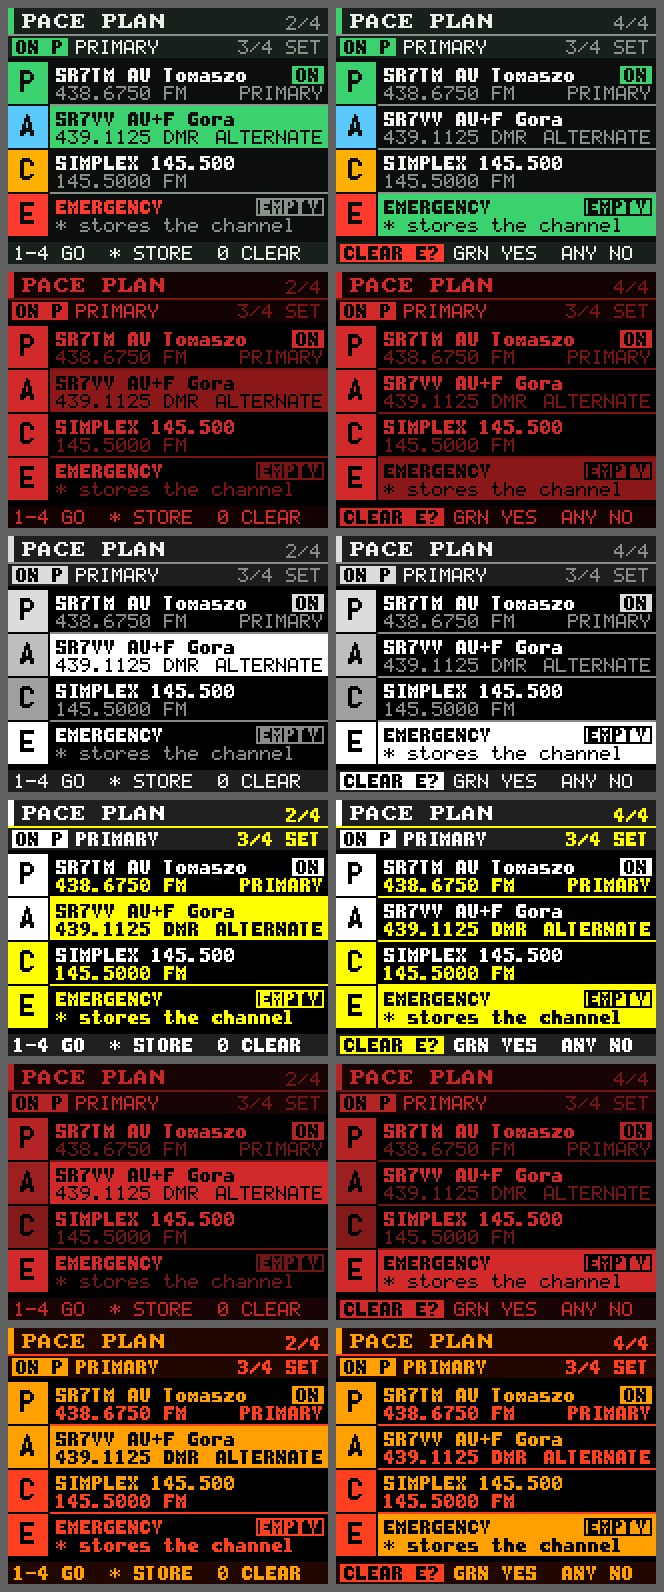
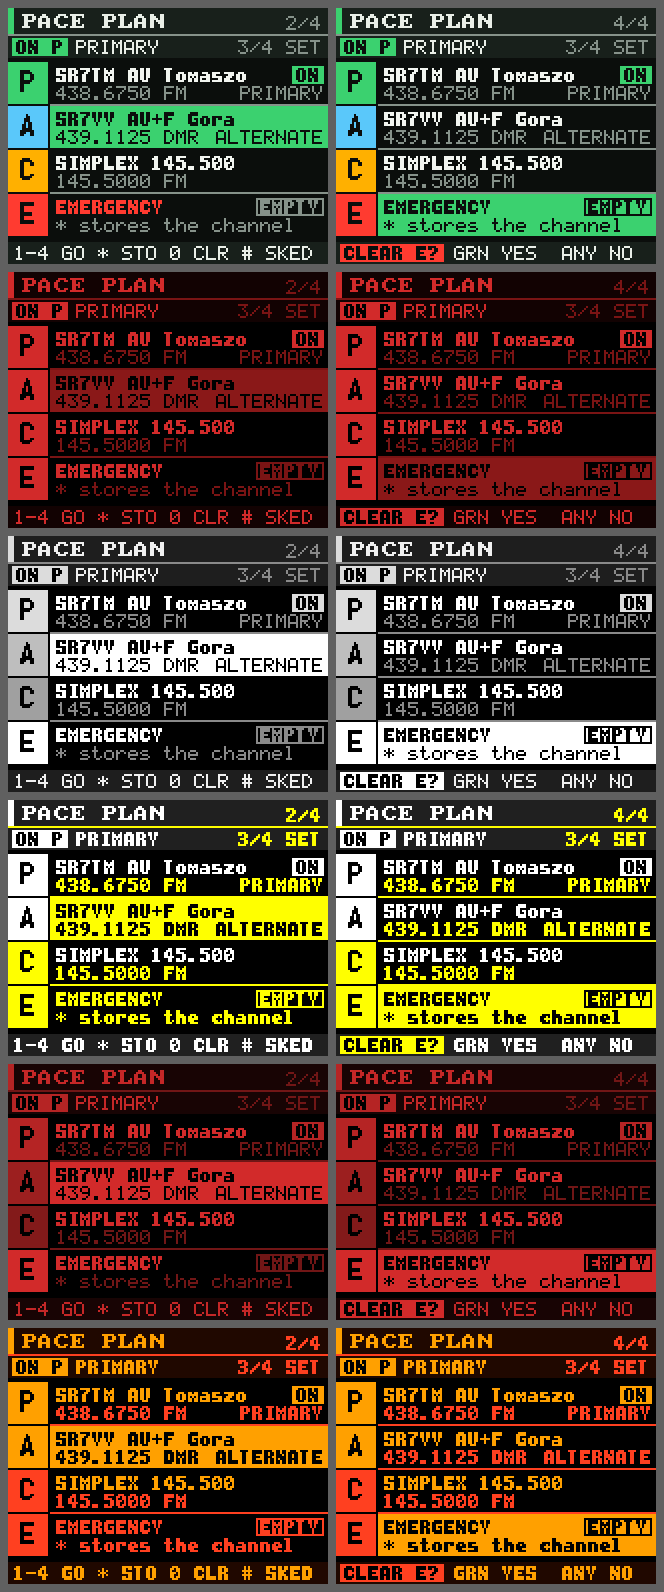
Docs: saved waypoints and sked mock-ups (list, edit, delete, cards, PACE strip) in all EMCOM styles and classic

diff --git a/docs/screens/render_waypoints_sked.py b/docs/screens/render_waypoints_sked.py
@@ -1,0 +1,272 @@
+#!/usr/bin/env python3
+# Stage 4b mock-ups: saved waypoints (menuWaypoints.c) and the comms schedule (menuSked.c,
+# functions/sked.c) in the EMCOM styles (day, night, mono, contrast, mono / contrast at night)
+# and the classic style. Per style: waypoint list with a fix, without a fix on an empty slot,
+# delete confirmation; sked list, editor, delete confirmation; the "SKED in 1 min" and
+# "SKED NOW" cards over the main screen and the PACE strip with the next sked. Example data.
+#
+#   python3 docs/screens/render_waypoints_sked.py
+#   (writes tools_waypoints.png, tools_sked.png, field_sked_cards.png, field_waypoints.png, field_sked.png)
+import math
+import os
+import sys
+
+HERE = os.path.dirname(os.path.abspath(__file__))
+sys.path.insert(0, HERE)
+import render_screens as R  # noqa: E402
+import render_access as A  # noqa: E402
+import render_refresh as F  # noqa: E402
+import render_tools as T  # noqa: E402
+import render_blackout as B  # noqa: E402
+import render_menus as M  # noqa: E402
+
+W, H = R.W, R.H
+txt, chip, title, strip, keybar, confirm = T.txt, T.chip, T.title, T.strip, T.keybar, T.confirm
+BODY_Y, KEYBAR_Y, STRIP_Y = T.BODY_Y, T.KEYBAR_Y, T.STRIP_Y
+
+
+def tri(s, pts, c):
+    (x0, y0), (x1, y1), (x2, y2) = pts
+    for y in range(min(y0, y1, y2), max(y0, y1, y2) + 1):
+        for x in range(min(x0, x1, x2), max(x0, x1, x2) + 1):
+            d0 = (x1 - x0) * (y - y0) - (y1 - y0) * (x - x0)
+            d1 = (x2 - x1) * (y - y1) - (y2 - y1) * (x - x1)
+            d2 = (x0 - x2) * (y - y2) - (y0 - y2) * (x - x2)
+            if (d0 >= 0 and d1 >= 0 and d2 >= 0) or (d0 <= 0 and d1 <= 0 and d2 <= 0):
+                s.fill(x, y, 1, 1, c)
+
+
+def arrow(s, cx, cy, brg, c):
+    # menuWaypoints.c drawArrow(): tip and wings 5 px, wings at +-150 deg, north up
+    p = lambda a, r: (cx + round(math.sin(math.radians(a)) * r), cy - round(math.cos(math.radians(a)) * r))
+    tip = p(brg, 5)
+    tri(s, [tip, p(brg + 150, 5), (cx, cy)], c)
+    tri(s, [tip, p(brg - 150, 5), (cx, cy)], c)
+
+
+COMPASS = ['N', 'NNE', 'NE', 'ENE', 'E', 'ESE', 'SE', 'SSE', 'S', 'SSW', 'SW', 'WSW', 'W', 'WNW', 'NW', 'NNW']
+
+
+def compass(b):
+    return COMPASS[int((b + 11.25) // 22.5) % 16]
+
+
+# slot: (name, metres, bearing, target)
+WPTS = [('CAMP', 1240, 48, True), ('WP2', 350, 205, False), ('SR7TM', 12400, 292, False), ('WATER', 2100, 95, False),
+        None, ('SQ7KLM-9', 7800, 160, False), None, None]
+
+
+def dist(m):
+    return f'{m}m' if m < 1000 else (f'{m // 1000}.{(m % 1000) // 100}km' if m < 100000 else f'{m // 1000}km')
+
+
+def wp_rows(s, TH, y0, sel, fix):
+    used = 0
+    for i, w in enumerate(WPTS):
+        y = y0 + i * 11
+        on = i == sel
+        tc = TH['bg'] if on else TH['fg']
+        mc = TH['bg'] if on else TH['deco']
+        if on:
+            s.fill(0, y, W, 10, TH['sel'])
+        if w is None:
+            txt(s, TH, 2, y + 1, str(i + 1), 1, mc)
+            txt(s, TH, 10, y + 1, '-- empty', 1, mc)
+            continue
+        used += 1
+        name, m, b, tgt = w
+        txt(s, TH, 2, y + 1, '>' if tgt else str(i + 1), 1, (TH['bg'] if on else TH['blue']) if tgt else mc)
+        txt(s, TH, 10, y + 1, name, '1b', TH['blue'] if (tgt and not on) else tc)
+        if not fix:
+            txt(s, TH, 118, y + 1, '--', 1, mc, True)
+            continue
+        txt(s, TH, 118, y + 1, dist(m), 1, tc, True)
+        txt(s, TH, 142, y + 1, compass(b), 1, mc, True)
+        arrow(s, 151, y + 5, b, TH['bg'] if on else TH['green'])
+    return used
+
+
+def waypoints(TH, sel=0, fix=True, delete=False):
+    s = R.Screen(TH['bg'])
+    title(s, TH, 'WAYPOINTS', f'{sel + 1}/8')
+    used = wp_rows(s, TH, BODY_Y, sel, fix)
+    strip(s, TH)
+    chip(s, TH, 2, STRIP_Y + 2, 'FIX' if fix else 'NO FIX', TH['green'] if fix else TH['amber'], outline=not fix)
+    txt(s, TH, W - 3, STRIP_Y + 2, f'{used}/8 SAVED', 1, TH['deco'], True)
+    if delete:
+        confirm(s, TH, f'DELETE {sel + 1}?')
+    else:
+        keybar(s, TH, 'GRN GO  RGT NAME  0 DEL' if WPTS[sel] else '* SAVE HERE  # LAT/LON')
+    return s
+
+
+SKEDS = [  # when, length/tune, chip, countdown, state colour
+    ('HOURLY :00', '10M PACE P', 'ON', '41:20', 'blue'),
+    ('DAILY 18:00', '15M CH SR7TM AU To', 'ON', '3H12', 'blue'),
+    ('EVERY 30M :15', '5M NONE', 'NOW', '02:10', 'green'),
+    None,
+]
+
+
+def sked_list(TH, sel=0, delete=False):
+    s = R.Screen(TH['bg'])
+    title(s, TH, 'SKED', f'{sel + 1}/4')
+    rh = (KEYBAR_Y - BODY_Y + 1) // 4
+    for i, k in enumerate(SKEDS):
+        y = BODY_Y + i * rh
+        on = i == sel
+        c = TH[k[4]] if k else TH['deco']
+        tc = TH['bg'] if on else TH['fg']
+        mc = TH['bg'] if on else TH['deco']
+        s.fill(0, y, 20, rh - 1, c)
+        s.text(4, y + (rh - 1 - 8) // 2, f'S{i + 1}', '1b', TH['bg'])
+        if on:
+            s.fill(21, y, W - 21, rh - 1, TH['sel'])
+        elif i < 3:
+            s.fill(21, y + rh - 1, W - 21, 1, TH['deco'])
+        if k is None:
+            txt(s, TH, 24, y + 3, 'NO SKED', '1b', mc)
+            txt(s, TH, 24, y + 12, 'GREEN sets one', 1, mc)
+            chip(s, TH, W - 2, y + 3, 'EMPTY', TH['bg'] if on else TH['deco'], outline=True, right=True)
+            continue
+        when, line2, st, cd, ck = k
+        txt(s, TH, 24, y + 3, when, '1b', tc)
+        if st == 'NOW':
+            chip(s, TH, W - 2, y + 3, 'NOW', TH['bg'] if on else TH['green'], outline=on, right=True)
+        else:
+            chip(s, TH, W - 2, y + 3, st, TH['bg'] if on else c, outline=True, right=True)
+        w = txt(s, TH, W - 2, y + 12, cd, 1, TH['bg'] if on else (TH['green'] if st == 'NOW' else TH['amber']), True)
+        maxc = (W - 2 - w - 6 - 24) // 6
+        txt(s, TH, 24, y + 12, line2[:maxc], 1, mc)
+    strip(s, TH)
+    x = 2 + chip(s, TH, 2, STRIP_Y + 2, 'S3 NOW', TH['green']) + 4
+    txt(s, TH, x, STRIP_Y + 2, '02:10', 1, TH['hfg'])
+    txt(s, TH, W - 3, STRIP_Y + 2, 'UTC 14:47', 1, TH['deco'], True)
+    if delete:
+        confirm(s, TH, f'DELETE S{sel + 1}?')
+    else:
+        keybar(s, TH, 'GRN EDIT  0 DEL  RED BACK')
+    return s
+
+
+EDIT = [('EVERY', 'DAY'), ('AT', '18:00 UTC'), ('LENGTH', '15 MIN'), ('TUNE', 'PACE A'), ('ALERT', 'ON')]
+
+
+def sked_edit(TH, field=1, emcom=True):
+    s = R.Screen(TH['bg'])
+    if emcom:
+        title(s, TH, 'EDIT SKED', 'S2')
+        strip(s, TH)
+        x = 2 + chip(s, TH, 2, STRIP_Y + 2, 'NEXT S1', TH['amber'], outline=True) + 4
+        txt(s, TH, x, STRIP_Y + 2, '41:20', 1, TH['hfg'])
+        txt(s, TH, W - 3, STRIP_Y + 2, 'UTC 14:47', 1, TH['deco'], True)
+    else:
+        M.title_bar(s, R.DARK, 'Sked 2')
+    y0 = BODY_Y if emcom else 16
+    for f, (k, v) in enumerate(EDIT):
+        y = y0 + f * 15
+        on = f == field
+        if on:
+            s.fill(0, y, W, 13, TH['sel'])
+        txt(s, TH, 4, y + 3, k, 1, TH['bg'] if on else TH['deco'])
+        txt(s, TH, 58, y + 3, v, '1b', TH['bg'] if on else TH['fg'])
+        if on:
+            txt(s, TH, 50, y + 3, '<', '1b', TH['bg'])
+            txt(s, TH, W - 3, y + 3, '>', '1b', TH['bg'], True)
+    txt(s, TH, 4, y0 + 75 + (1 if emcom else 0), 'DAILY 18:00 15M', 1, TH['amber'])
+    keybar(s, TH, 'UP/DN  < > SET  GRN SAVE')
+    return s
+
+
+def cards(P):
+    warn = F.alert(P, 'warning', 'SKED in 1 min\nS1 SR7TM AU Tomaszo', under=B.main_screen(P))
+    now = F.alert(P, 'info', 'SKED 1 NOW\nSR7TM AU Tomaszo\nGREEN = TUNE', under=B.main_screen(P))
+    return [warn, now]
+
+
+# --- classic (menuWaypoints.c / menuSked.c without the EMCOM style) --------------------------------
+def classic_theme():
+    P = R.DARK
+    return dict(bg=P['bg'], fg=P['fg'], deco=P['mut'], sel=P['line'], green=P['rx'], amber=P['scan'], red=P['tx'],
+                blue=P['info'], hbg=P['bar'], hfg=P['barFg'])
+
+
+def classic_waypoints():
+    TH = classic_theme()
+    s = R.Screen(TH['bg'])
+    M.title_bar(s, R.DARK, 'Waypoints')
+    wp_rows_classic(s, TH, 16, 0)
+    s.fill(0, H - 11, W, 11, TH['hbg']); s.text(3, H - 9, 'GRN GO  RGT NAME  0 DEL', 1, TH['hfg'])
+    return s
+
+
+def wp_rows_classic(s, TH, y0, sel):
+    for i, w in enumerate(WPTS):
+        y = y0 + i * 11
+        on = i == sel
+        if on:
+            s.fill(0, y, W, 10, 0x3BD16F)
+        tc = TH['bg'] if on else TH['fg']
+        mc = TH['bg'] if on else TH['deco']
+        if w is None:
+            s.text(2, y + 1, str(i + 1), 1, mc); s.text(10, y + 1, '-- empty', 1, mc)
+            continue
+        name, m, b, tgt = w
+        s.text(2, y + 1, '>' if tgt else str(i + 1), 1, tc if on else (TH['blue'] if tgt else mc))
+        s.text(10, y + 1, name, '1b', tc if (on or not tgt) else TH['blue'])
+        s.text(118, y + 1, dist(m), 1, tc, True)
+        s.text(142, y + 1, compass(b), 1, mc, True)
+        arrow(s, 151, y + 5, b, TH['bg'] if on else TH['green'])
+
+
+def classic_sked():
+    TH = dict(classic_theme(), sel=0x3BD16F)
+    # classic: plain title, no strip, rows from y 16 (25 px rows)
+    c = R.Screen(TH['bg'])
+    M.title_bar(c, R.DARK, 'Sked')
+    rh = (H - 16 - 11 - 1) // 4
+    for i, k in enumerate(SKEDS):
+        y = 16 + i * rh
+        on = i == 0
+        col = TH[k[4]] if k else TH['deco']
+        c.fill(0, y, 20, rh - 1, col); c.text(4, y + (rh - 1 - 8) // 2, f'S{i + 1}', '1b', TH['bg'])
+        if on:
+            c.fill(21, y, W - 21, rh - 1, TH['sel'])
+        tc, mc = (TH['bg'], TH['bg']) if on else (TH['fg'], TH['deco'])
+        if k is None:
+            c.text(24, y + 3, 'NO SKED', '1b', mc); c.text(24, y + 12, 'GREEN sets one', 1, mc)
+            T.chip(c, TH, W - 2, y + 3, 'EMPTY', TH['deco'], outline=True, right=True)
+            continue
+        when, line2, st, cd, ck = k
+        c.text(24, y + 3, when, '1b', tc)
+        T.chip(c, TH, W - 2, y + 3, st, TH['bg'] if on else (TH['green'] if st == 'NOW' else col), outline=(st != 'NOW') or on, right=True)
+        w = len(cd) * 6
+        c.text(W - 2, y + 12, cd, 1, TH['bg'] if on else TH['amber'], True)
+        c.text(24, y + 12, line2[:(W - 2 - w - 6 - 24) // 6], 1, mc)
+    c.fill(0, H - 11, W, 11, TH['hbg']); c.text(3, H - 9, 'GRN EDIT  0 DEL  RED BACK', 1, TH['hfg'])
+    return c
+
+
+def main():
+    panels = []
+    for _, TH in T.THEMES:
+        panels += [waypoints(TH, 0), waypoints(TH, 4, fix=False), waypoints(TH, 2, delete=True)]
+    A.sheet(os.path.join(HERE, 'tools_waypoints.png'), panels, cols=3)
+
+    panels = []
+    for _, TH in T.THEMES:
+        panels += [sked_list(TH, 0), sked_edit(TH), sked_list(TH, 1, delete=True), T.pace(TH, 0, sked='S1 41:20')]
+    A.sheet(os.path.join(HERE, 'tools_sked.png'), panels, cols=4)
+
+    panels = []
+    for _, P in B.STYLES:
+        panels += cards(P)
+    A.sheet(os.path.join(HERE, 'field_sked_cards.png'), panels, cols=2)
+
+    classic_waypoints().png(os.path.join(HERE, 'field_waypoints.png'))
+    A.sheet(os.path.join(HERE, 'field_sked.png'), [classic_sked(), sked_edit(dict(classic_theme(), sel=0x3BD16F), emcom=False)], cols=2)
+    print('tools_waypoints.png tools_sked.png field_sked_cards.png field_waypoints.png field_sked.png')
+
+
+if __name__ == '__main__':
+    main()

diff --git a/docs/screens/render_tools.py b/docs/screens/render_tools.py
@@ -122,7 +122,7 @@ PACE = [('P', 'green', 'SR7TM AU Tomaszo', '438.6750 FM', True),
 PACE_NAMES = ['PRIMARY', 'ALTERNATE', 'CONTINGENCY', 'EMERGENCY']
 
 
-def pace(T, sel=1, confirm_clear=False):
+def pace(T, sel=1, confirm_clear=False, sked=None):
     s = R.Screen(T['bg'])
     title(s, T, 'PACE PLAN', f'{sel + 1}/4')
     rh = (KEYBAR_Y - BODY_Y + 1) // 4
@@ -150,13 +150,18 @@ def pace(T, sel=1, confirm_clear=False):
             txt(s, T, 24, y + 12, '* stores the channel', 1, mc)
             chip(s, T, W - 2, y + 3, 'EMPTY', T['bg'] if isSel else T['deco'], outline=True, right=True)
     strip(s, T)
+    if sked:  # the next sked count-down (menuPACE.c skedText()), the slot name only when it fits
+        rw = txt(s, T, W - 3, STRIP_Y + 2, sked, 1, T['amber'], True)
+        rw += txt(s, T, W - 3 - rw - 4, STRIP_Y + 2, 'SKED', 1, T['deco'], True) + 4
+    else:
+        rw = txt(s, T, W - 3, STRIP_Y + 2, '3/4 SET', 1, T['deco'], True)
     x = 2 + chip(s, T, 2, STRIP_Y + 2, 'ON P', T['green']) + 4
-    txt(s, T, x, STRIP_Y + 2, 'PRIMARY', 1, T['hfg'])
-    txt(s, T, W - 3, STRIP_Y + 2, '3/4 SET', 1, T['deco'], True)
+    if x + len('PRIMARY') * 6 + 10 <= W - 3 - rw:
+        txt(s, T, x, STRIP_Y + 2, 'PRIMARY', 1, T['hfg'])
     if confirm_clear:
         confirm(s, T, f'CLEAR {PACE[sel][0]}?')
     else:
-        keybar(s, T, '1-4 GO  * STORE  0 CLEAR')
+        keybar(s, T, '1-4 GO * STO 0 CLR # SKED')
     return s
 
 

diff --git a/docs/screens/render_field.py b/docs/screens/render_field.py
@@ -45,7 +45,7 @@ def pace():
         else:
             s.text(24, y + 1, names[i], '1b', c)
             s.text(24, y + 11, 'empty - * stores', 1, P['mut'])
-    keybar(s, '1-4 GO  * STORE  0 CLEAR')
+    keybar(s, '1-4 GO * STO 0 CLR # SKED')
     return s
 
 
